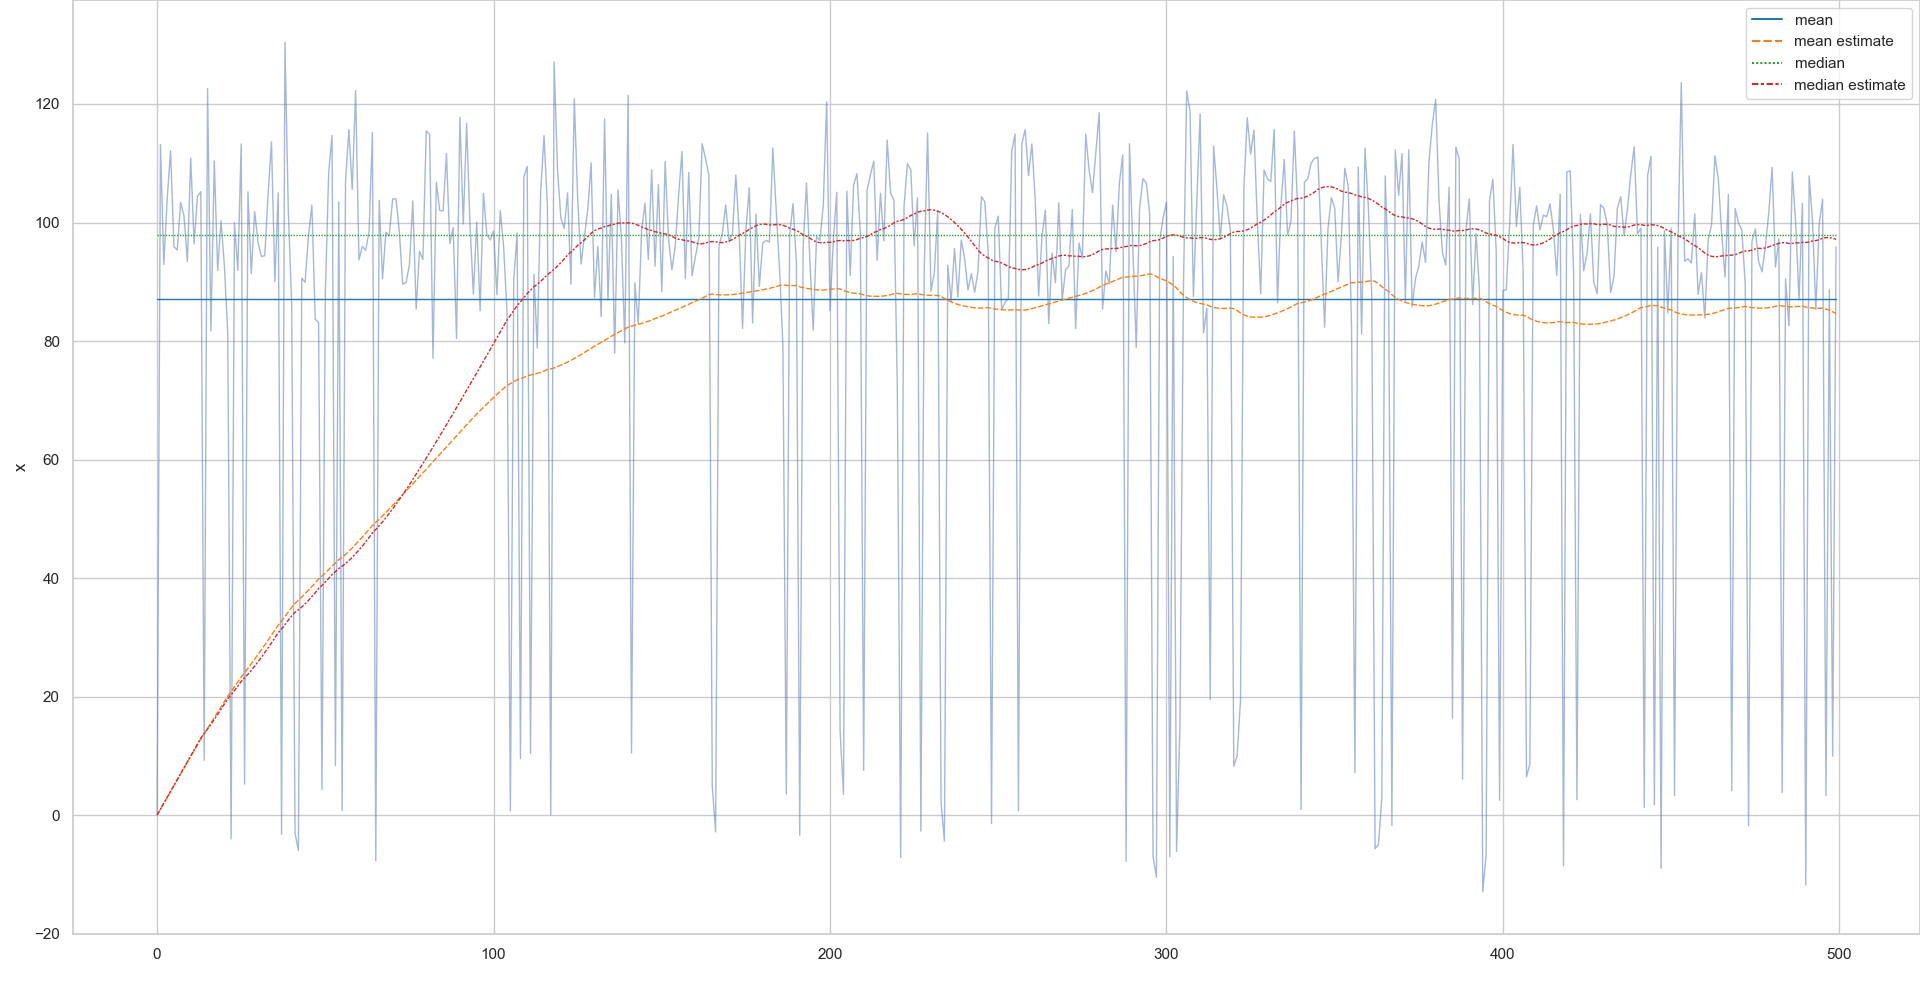
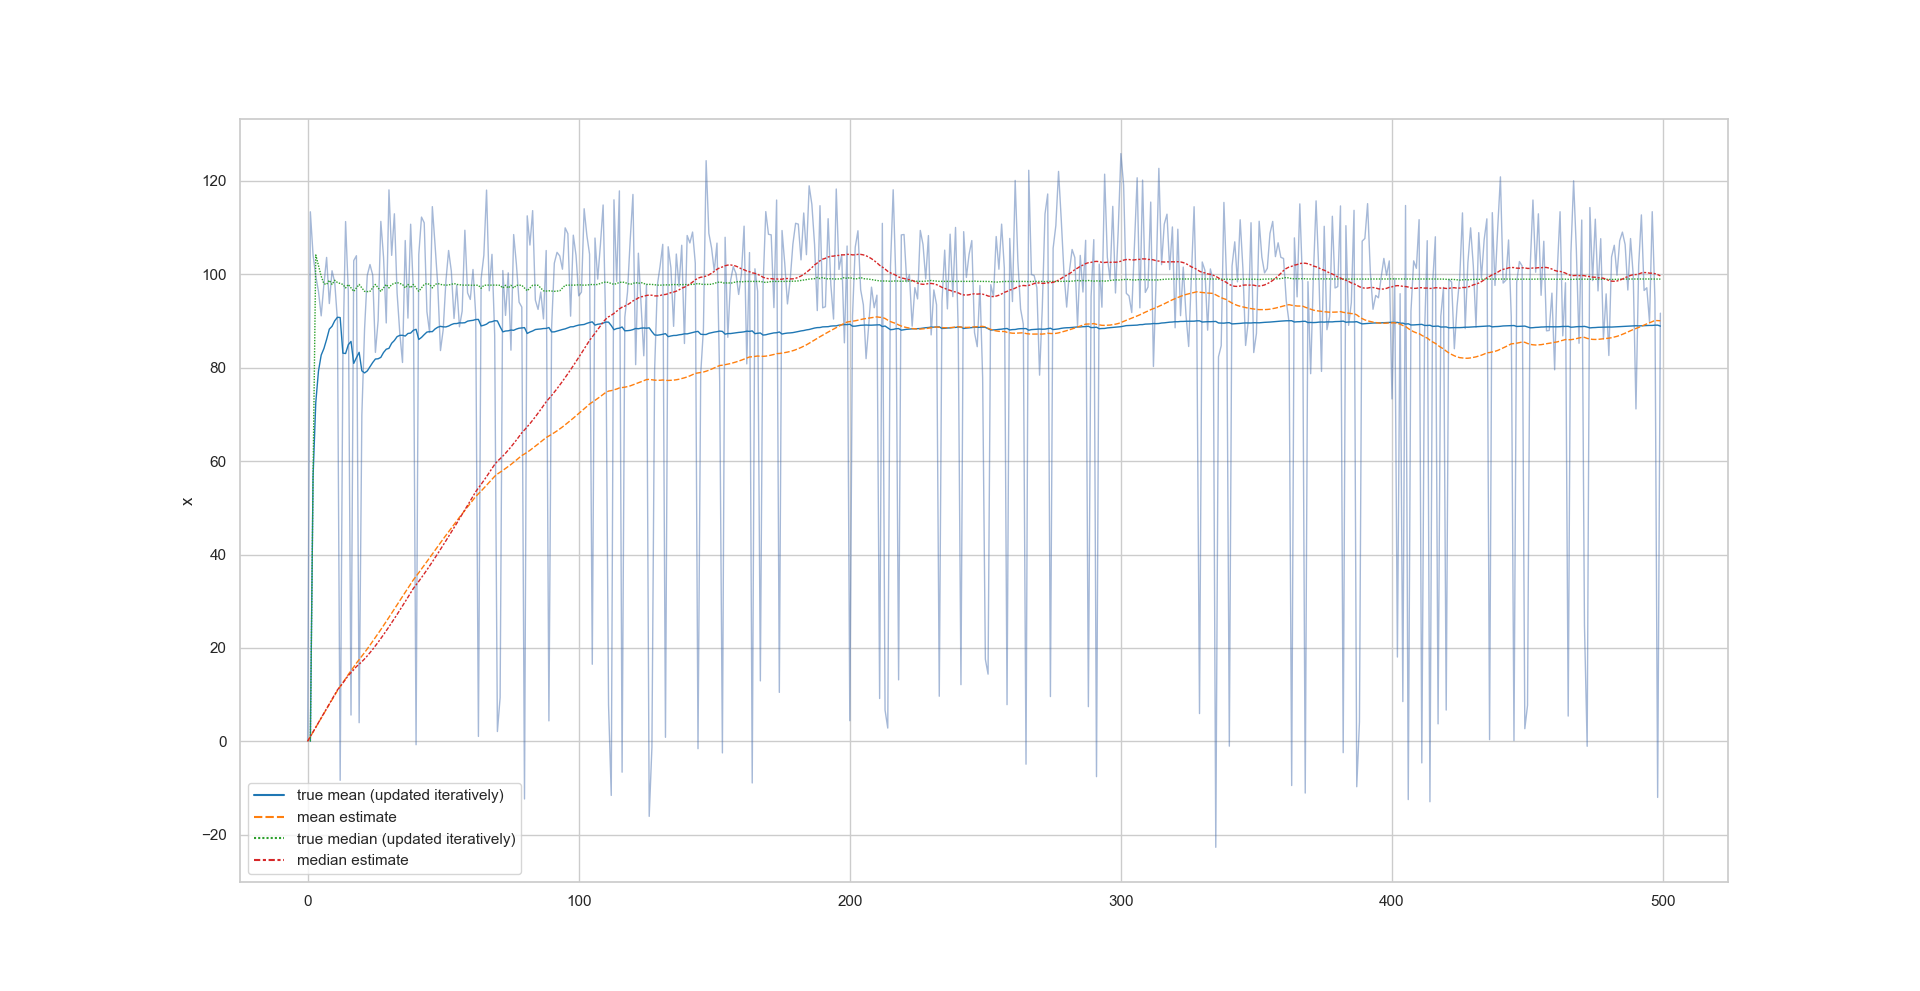
update

diff --git a/iterative_median_estimator/iterative_median_estimator.py b/iterative_median_estimator/iterative_median_estimator.py
@@ -89,9 +89,9 @@ print(f"median:\n\testimate = {median_estm[-1]}, true = {np.median(X)}")
 
 df = pd.DataFrame(data={
     'x': X,
-    'mean': np.mean(X),
+    'true mean (updated iteratively)': [np.mean(X[:i]) for i in range(N)],
     'mean estimate': mean_estm,
-    'median': np.median(X),
+    'true median (updated iteratively)': [np.median(X[:i]) for i in range(N)],
     "median estimate": median_estm})
 
 sns.lineplot(data=df['x'], linewidth=1, alpha = 0.5)
